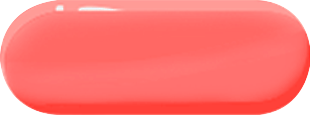
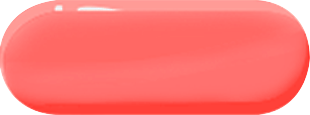
fix(index): 细节调整

diff --git a/src/pages/Index.tsx b/src/pages/Index.tsx
@@ -47,7 +47,7 @@ const IndexBadgeIcon = styled.div`
 const Button = styled.div`
   background-size: cover;
   height: 115px;
-  width: 310px;
+  width: 313px;
   display: flex;
   justify-content: center;
   align-items: center;
@@ -69,7 +69,7 @@ const IndexOrangeButton = styled(Button)`
 const IndexRuleIcon = styled.div`
   background-image: url("${IndexRulePng}");
   background-size: cover;
-  height: 52px;
+  height: 53px;
   width: 44px;
 `;
 
